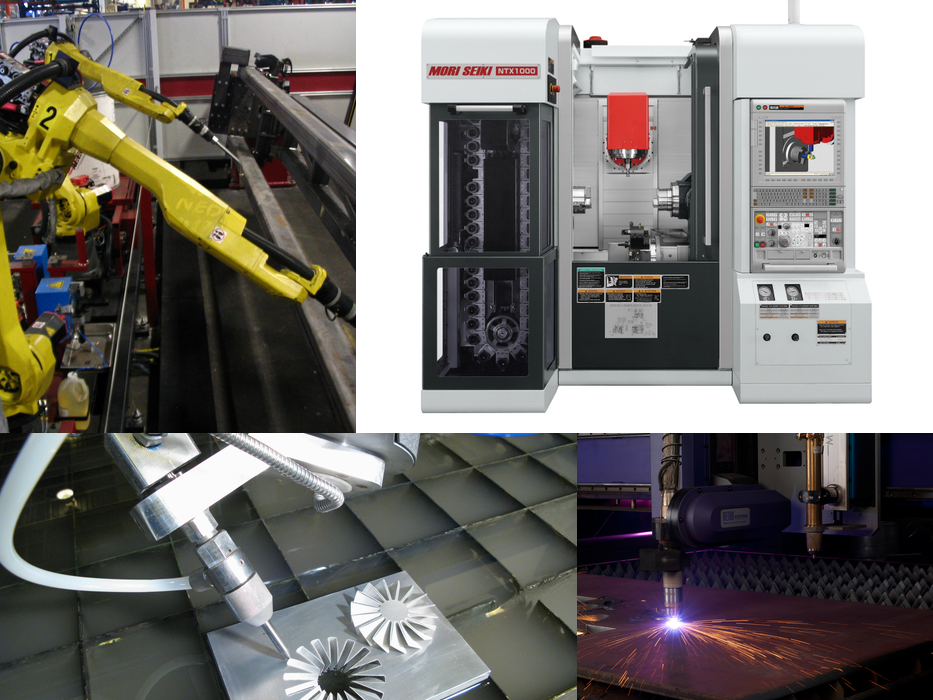
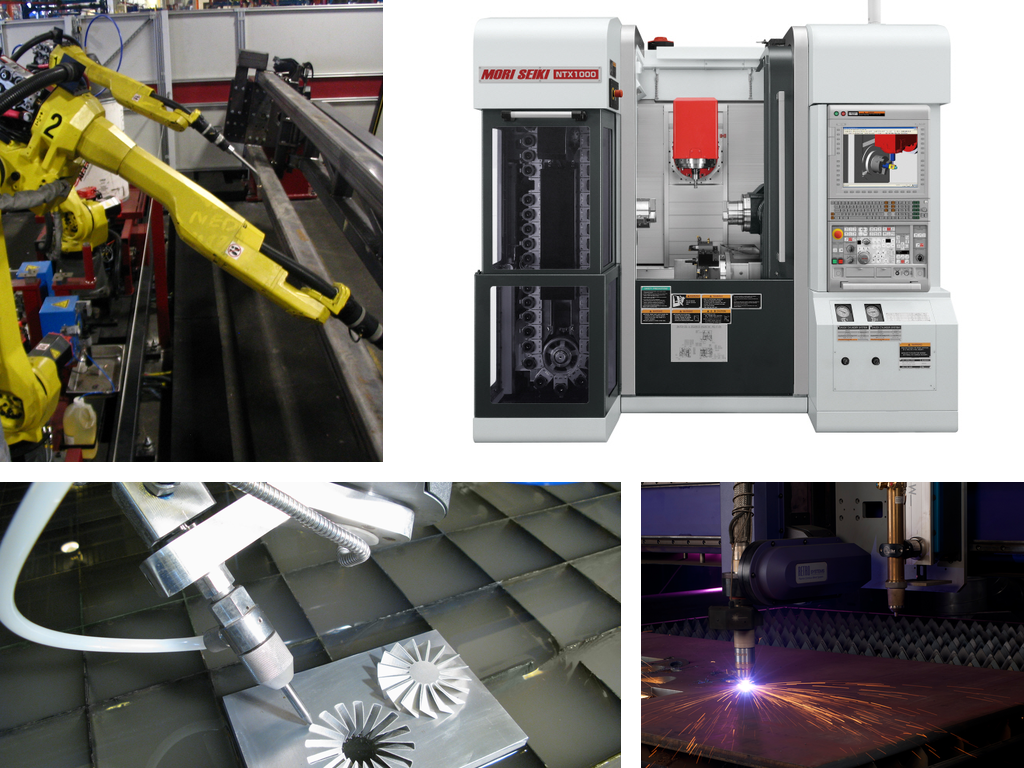
am i done yet?

diff --git a/images/render.py b/images/render.py
@@ -43,7 +43,8 @@ def composite(images, target_fn):
     target.save(target_fn)
 
 MaxSize = (1024, 768)
-TargetSize = ratio(MaxSize, height=700)
+#TargetSize = ratio(MaxSize, height=700)
+TargetSize = MaxSize
 
 GinkgoImages = [
     ("ginkgo_3.jpg", "center"),
@@ -101,28 +102,33 @@ CNCImages = [
     ("cnc_2.jpg", "center"),
 ]
 
+border = 20
 
 (width, height) = TargetSize
-ratio = 1.0 / ((1 + 5 ** .5) / 2.0)
-_23_width = int(round(ratio * width))
-_13_width = width - _23_width
+golden_ratio = 1.0 / ((1 + 5 ** .5) / 2.0)
+_23_width = int(round(golden_ratio * (width - border)))
+_13_width = (width - border) - _23_width
 
-_23_height = int(round(ratio * height))
-_13_height = height - _23_height
+_23_height = int(round(golden_ratio * (height - border)))
+_13_height = (height - border) - _23_height
 
 sizes = [
+    # top-left
     [0, 0, _13_width, _23_height], 
-    [_13_width, 0, width, _23_height],
-    [0, _23_height, _23_width, height],
-    [_23_width, _23_height, width, height],
+    # top-right
+    [_13_width + border, 0, width, _23_height],
+    # bottom-left
+    [0, _23_height + border, _23_width, height],
+    # bottom-right
+    [_23_width + border, _23_height + border, width, height],
 ]
 
-composite(GinkgoImages, "images/ginkgo.png")
-composite(HobbyImages, "images/hobbies.png")
-composite(GardenImages, "images/garden.png")
+#composite(GinkgoImages, "images/ginkgo.png")
+#composite(HobbyImages, "images/hobbies.png")
+#composite(GardenImages, "images/garden.png")
 composite(LaserCutterImages, "images/laser.png")
 composite(PhysicalImages, "images/physical.png")
 composite(MachineAgeImages, "images/machine_age.png")
-composite(AtomicAgeImages, "images/atomic_age.png")
+#composite(AtomicAgeImages, "images/atomic_age.png")
 composite(CNCImages, "images/cnc.png")
 

diff --git a/presentations/presentation.md b/presentations/presentation.md
@@ -14,25 +14,25 @@ Note:
 My name is Giles Hall.  I've been using python since 1996, and at this point, I consider it my mother tongue.  I utilize python throughout my life.  
 
 # END #
-<img src="images/ginkgo.png" />
+<section data-background-image="images/ginkgo.png" />
 
 Note:
 Currently, I work for a company in Boston called "Ginkgo Bioworks" -- We apply genetic engineering to build useful customized organisms.  I use python to preform data analysis to help our engineering efforts.  We are hiring!  
 
 # END #
-<img src="images/hobbies.png" />
+<section data-background-image="images/hobbies.png" />
 
 Note:
 I have many hobbies, including photography, gardening, cycling, cooking, electronics and making art.  And for each one of my hobbies, I've written at least a handful of python scripts related to it.
 
 # END #
-<img src="images/garden.png" />
+<section data-background-image="images/garden.png" />
 
 Note:
 Here is a quick example.  In my backyard, I have a Davis weather station.  This transmit weather data wirelessly to a Raspberry Pi in my house.  I have another Raspberry Pi in the basement that monitors these data, and controls a set of relays that switch on spinklers for the garden.  To me, python is not just a programming language.  It's a tool I use to creatively express myself. 
 
 # END #
-<img height="700px" src="images/not-art.jpg" />
+<section data-background-image="images/not-art.jpg" />
 
 Note: 
 But, as powerful as python is, programming by its very nature is not a physical medium.  [beat] Frederic P. Brooks wrote one of my favorite quotes about computer programming in his book The Mythical Man-Month 
@@ -53,27 +53,27 @@ Note:
 I realize not everything I said is true, we use software to manipulate our physical world every day.
 # END #
 
-<img src="images/physical.png" />
+<section data-background-image="images/physical.png" />
 
 Note:
 Our computers produce sound, and light and churn out printed documents.  There are many ways you can write code as a generator for these processes.  This is what I want to talk about, how to use code to design physical objects with python.
 
 # END #
-<img src="images/machine_age.png" />
+<section data-background-image="images/machine_age.png" />
 
 Note:
 Before there were computers, people had to make things by hand.  The period between the late 19th century and the middle of the 20th century was collectively known as the "Machine Age".  During this time, we perfected the art of building parts at an industrial scale using a process called "subtractive manufacturing".  This includes processes such as milling, turning, boring, broaching, sawing, reaming and tapping.  The general idea was to shape bulk stock into some kind of part by removing material with incredible precision.
 
 # END #
 
-<img src="images/atomic_age.png" />
+<section data-background-image="images/atomic_age.png" />
 
 Note:
 After the 1950s, the world entered the atomic age and ushered in the digital computer.  During the 1940s and 50s, existing tools like mills and lathes were connected to electric motors that were controlled with punched tape.  This was the first step towards automation of machine tools, and as computers evolved in sophistication, it spawned a new field of fabrication called Computer Numerical Control, known as CNC.
 
 # END #
 
-<img src="images/cnc.png" />
+<section data-background-image="images/cnc.png" />
 
 Note:
 Today, computer controlled automation is ubiquitous throughout all areas of manufacturing.  Not only has the computer hardware and software programming evolved in sophistication, but there are new manfacturing tools and processes that have only existed in the last few decades.  This includes plasma cutters, water jets, 5-axis milling machines, lithography... and two of my favorite technologies.
@@ -87,7 +87,7 @@ laser cutters and 3D printers.  From here, we will examine each of these technol
 
 # END #
 
-<img src="images/laser.png" />
+<section data-background-image="images/laser.png" />
 
 Note:
 Laser-cutters are devices that utilize high-powered lasers to etch or cut a variety of different materials. 
@@ -99,7 +99,7 @@ Stepper motors traverse the head in the X/Y plane parallel to the work material,
 Laser cutters are incredibly precise, and are capable of producing complex designs with intricate detail.
 
 # END #
-<img height="700px" style="background-color:white;" src="images/raster_vs_vector.png" />
+<section data-background-image="images/raster_vs_vector.png" />
 
 Note:
 Digital designs for laser cutting typically start as vector graphics.  Design programs like Adobe Illustrator and Inkscape are vector illustration packages.  This is in contrast to programs like the GIMP and Photoshop, which are raster, or bitmap, oriented graphic packages.  Vector graphics make it easy for the software controlling the motion of the laser cutter to translate the graphics into motion.  
@@ -174,19 +174,19 @@ Note:
 Now for the best part of SVG, paths.  A path is simply a list of connected like segments that are used to build complex ploygons.  Segments can be straight or curved with control points.  Coordinates can be specified in absolute coordinates or relative coordinates.  The path itself is broken up into single letter commands like 'M' for "move" or "L" for line and then two or more numbers that represent coordinates.  You can do a lot with just circles and squares, but paths allow us to build incredibly complex shapes.  When we start thinking about the laser cutter, our path might dictacte the exact path the laser head will follow.
 
 # END #
-<img width="700 px" src="images/dovetail_case.png" />
+<section data-background-image="images/dovetail_case.png" />
 
 # END #
-<img src="images/example_box.svg" />
+<section data-background-image="images/example_box.svg" />
 
 # END #
-<img src="images/example_box_polarity.svg" />
+<section data-background-image="images/example_box_polarity.svg" />
 
 # END #
-<img src="images/box_teeth.svg" />
+<section data-background-image="images/box_teeth.svg" />
 
 # END #
-<img src="images/teeth_schematic.svg" />
+<section data-background-image="images/teeth_schematic.svg" />
 
 # END #
 ```python
@@ -216,7 +216,7 @@ dwg.save()
 ```
 
 # END #
-<img src="images/wave.svg" />
+<section data-background-image="images/wave.svg" />
 
 # END #
 ``` python
@@ -266,6 +266,19 @@ OpenSCAD is utilizes "Constructive Solid Geometry".  The idea is to build your o
 # END #
 
 <image height="700px" src="images/drinking_glass.jpg" />
+
+# END #
+
+```python
+difference()
+{
+    cylinder(r=20, h=80);
+    translate([0, 0, 1])
+    {
+        cylinder(r=18, h=80);
+    }
+}
+```
 
 Note:
 For example, consider a drinking glass.  It can be constructed with two cylinders.  The first describes the outside surface, and the second describes the empty volume inside.  Using OpenSCAD, we would define the first cylinder with a second cylinder inside.  The inside cylinder would be offset in the Z-axis (the up axis), and would have a smaller radius then the first.  We would then subtract the inner cylinder from the outer cylinder to create its empty envelope.  In order for this to work, we need to offset the inner cylinder's from the outer cylinder.
@@ -324,49 +337,49 @@ Before we design our flowerpot, now that we have a feeling for OpenSCAD's syntax
 
 # END #
 
-<img height="700px" src="images/snowflake_actual.jpg" />
+<section data-background-image="images/snowflake_actual.jpg" />
 
 Note:
 Now I would like to wet your appetite by talking about two of my projects, one for laser cutting and the other for 3D printing.  The first is a project my girlfriend and I started about four years ago.  We were trying to figure out what to make our friends and family for the holidays.
 
 # END #
 
-<img height="700px" src="images/snowflake_paper.jpg" />
+<section data-background-image="images/snowflake_paper.jpg" />
 
 Note:
 Rachael found this amazing paper that describes a physical model to simulate the growth of snowflakes.  We translated the math from the paper into python code, and proceeded to make personalized snowflakes for everyone on our gift list.
 
 # END #
 
-<img height="700px" src="images/snowflake_hexgrid_empty.jpg" />
+<section data-background-image="images/snowflake_hexgrid_empty.jpg" />
 
 Note:
 The model works at the "mesoscopic" level, which is to say a collection of molecules of an undefined unit.  It starts by creating an hexagonal grid.
 
 # END #
-<img height="700px" src="images/snowflake_hexgrid_seeded.jpg" />
+<section data-background-image="images/snowflake_hexgrid_seeded.jpg" />
 
 Note:
 This grid is then populated grid with an homogenuous field of water molecules.  These water molecules can then move from one neighboring cell to another, and can switch between three defined states "vapour", "boundary", and "frozen".  The initial field of water molecules are set to a vapour state, except for the cell in the middle, which is initialized as a frozen state.  From there, the simulation runs and a snowflake begins to form.
 
 # END #
 
-<img height="700px" src="images/snowflake_hexgrid_step1.jpg" />
+<section data-background-image="images/snowflake_hexgrid_step1.jpg" />
 
 Note:
 As the simulation progresses, the snowflake crystal begins to grow from the initial central seed.  
 
 # END #
 
-<img height="700px" src="images/snowflake_hexgrid_step2.jpg" />
+<section data-background-image="images/snowflake_hexgrid_step2.jpg" />
 
 # END #
 
-<img height="700px" src="images/snowflake_hexgrid_step2.jpg" />
+<section data-background-image="images/snowflake_hexgrid_step2.jpg" />
 
 # END #
 
-<img height="700px" src="images/snowflake_bitmap.jpg" />
+<section data-background-image="images/snowflake_bitmap.jpg" />
 
 Note:
 This builds a complex bitmap, but instead of capturing RGB intensities on a cartesian grid, the bitmap stores the density of frozen water molecules with a hexagonal grid.  When the snowflake reaches a certain pre-detemined size, the simulation stops and the program proceeds to translate the snowflake into SVG files.
@@ -394,28 +407,28 @@ The mathematical model is both complex and sophisticated.  It has 8 different pa
 
 # END #
 
-<img height="700px" src="images/rockit_launch.png" />
+<section data-background-image="images/rockit_launch.png" />
 
 Note:
 The second project I want to talk to you about is something I called Rockit, spelled ROCKIT.  Rockit is a model rocket generator, written in python, and capaable of producing a wide variety of model rocket designs.  This was one of the first projects I worked on that coupled Python with OpenSCAD.  
 
 # END #
 
-<img height="700px" src="images/model_rocket_motors.jpg" />
+<section data-background-image="images/model_rocket_motors.jpg" />
 
 Note:
 If you are not familar with model rocketry, you should know there are a range of engine sizes.  These engines are made of solid propellant packed into a cardboard tube.  The sizes vary in length and diameter, requiring different sized engine holders.  In order to build a model rocket, you first need to define the engine size.  This parameter is used to calculate other sizes, like the diameter of the rocket body and the overall size.
 
 # END #
 
-<img width="1000px" src="images/exploded_rocket.png" />
+<img width="1024px" src="images/exploded_rocket.png" />
 
 Note:
 A second design feature of these rockets are the coupling sleeves used to hold the rocket together.  They work a litle like legoes, making it easy to print a rocket and snap it together without the need for glue (although a little super glue goes a long way in ensuring your rocket stays together during its flight).
 
 # END #
 
-<img height="700px" src="images/rockit_two_stage.png" />
+<section data-background-image="images/rockit_two_stage.png" />
 
 Note:
 You can even print the base of the rocket with sleeves, which allows you to build multi-stage rockets.
